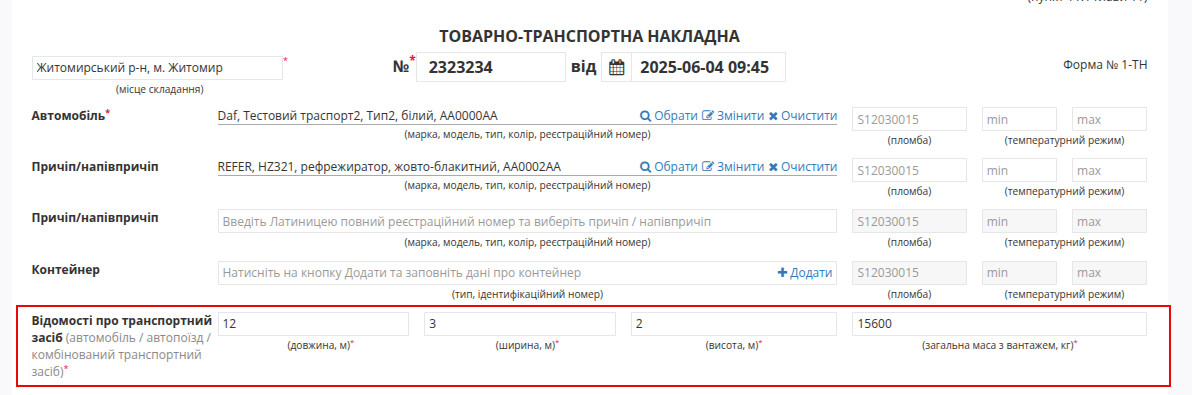
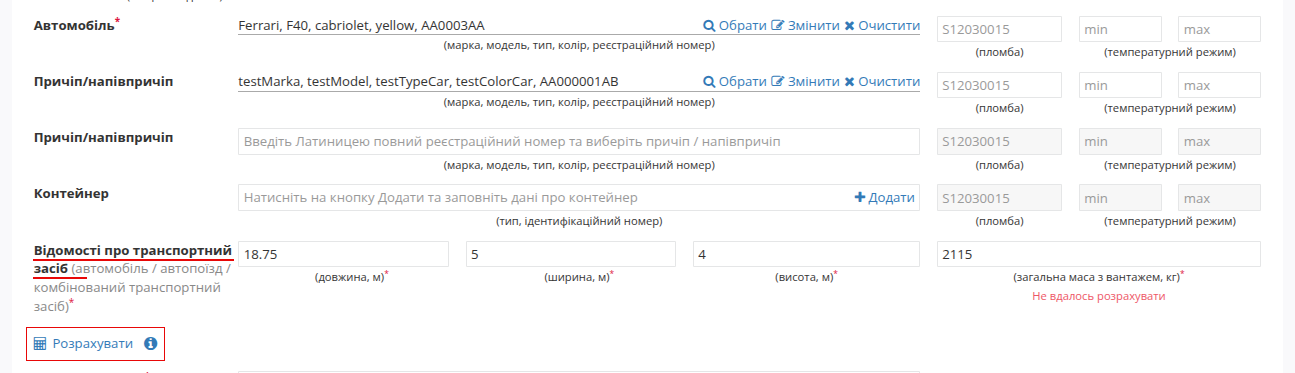
update_calculation

diff --git a/docs/ETTN_3_0/What_work_calculation.rst b/docs/ETTN_3_0/What_work_calculation.rst
@@ -1,12 +1,22 @@
 ###################################################################################################
-Як працює автоматичний розрахунок
+Розрахунок поля "Відомості про транспортний засіб" 
 ###################################################################################################
 
+Для автоматичного розрахунку: 
+  * додайте всі транспортні засоби до ТТН;
+  * за необхідністю відкорегуйте табличну область (товари).
+  Після чого натисніть кнопку **"Розрахувати"**.
+
+.. attention::
+   * розрахунок здійснюється на основі вже доданих транспортних засобів і товару;
+   * поля, які були заповнені вручну або підтягнуті з документа-підстави, не перезаписуються під час автоматичного розрахунку.
+
+**Як працює автоматичний розрахунок?**
 
 **Довжина**
-    Встановлюється максимально допустиме значення відповідно до кількості транспортних одиниць згідно з ПДР (`пункт 22.5 <https://zakon.rada.gov.ua/laws/show/1306-2001-%D0%BF#Text>`__):
+Встановлюється максимально допустиме значення відповідно до кількості транспортних одиниць згідно з ПДР (`пункт 22.5 <https://zakon.rada.gov.ua/laws/show/1306-2001-%D0%BF#Text>`__):
     * 1 ТЗ - 12м
-    * 2 ТЗ (авто + причіт) - 18,75м
+    * 2 ТЗ (авто + причіп) - 18,75м
     * 3 і більше ТЗ - 22м
 
 **Ширина**
@@ -22,6 +32,10 @@
 
 
 **Коли значення не вдається розрахувати:**
-   * Якщо за ширино, висотою або масою - не знайдено значень у довіднику, та було підставлено максимально допустиме значення, то під відповідним полем з'являється червоний текст: **"Не вдалось розрахувати"**.
+   * Якщо за шириною, висотою або масою - не знайдено значень у довіднику, та було підставлено максимально допустиме значення, то під відповідним полем з'являється червоний текст: **"Не вдалось розрахувати"**.
 
 ❗ Для маси розрахунок буде неможливим, якщо маса не вказана у ТЗ, або відсутня таблична частина з товарами.
+
+
+.. image:: pics_Create_ETTN/Create_ETTN_078.png
+   :align: center

diff --git a/docs/ETTN_3_0/Create_ETTN.rst b/docs/ETTN_3_0/Create_ETTN.rst
@@ -110,17 +110,10 @@
    :align: center
 
 **"Відомості про транспортний засіб"** - реалізовано можливість автоматичного розрахунку довжини, ширини, висоти транспортних засобів та загальної маси з вантажем, що значно спрощує заповнення ТТН.
-Для автоматичного розрахунку: 
-  * додайте всі транспортні засоби до ТТН;
-  * за необхідністю відкорегуйте табличну область (товари).
-  Після чого натисніть кнопку **"Розрахувати"**.
-
-.. attention::
-   * розрахунок здійснюється на основі вже доданих транспортних засобів і товару;
-   * поля, які були заповнені вручну або підтягнуті з документа-підстави, не перезаписуються під час автоматичного розрахунку.
+Для розрахунку значень натисніть кнопку **"Розрахувати"**.
   
 .. note::
-   Як працює автоматичний розрахунок детально описано за `посиланням <https://wiki.edin.ua/uk/latest/ETTN_3_0/What_work_calculation.html>`__
+   Вимоги та як працює автоматичний розрахунок детально описано за `посиланням <https://wiki.edin.ua/uk/latest/ETTN_3_0/What_work_calculation.html>`__
 
 .. image:: pics_Create_ETTN/Create_ETTN_078.png
    :align: center
